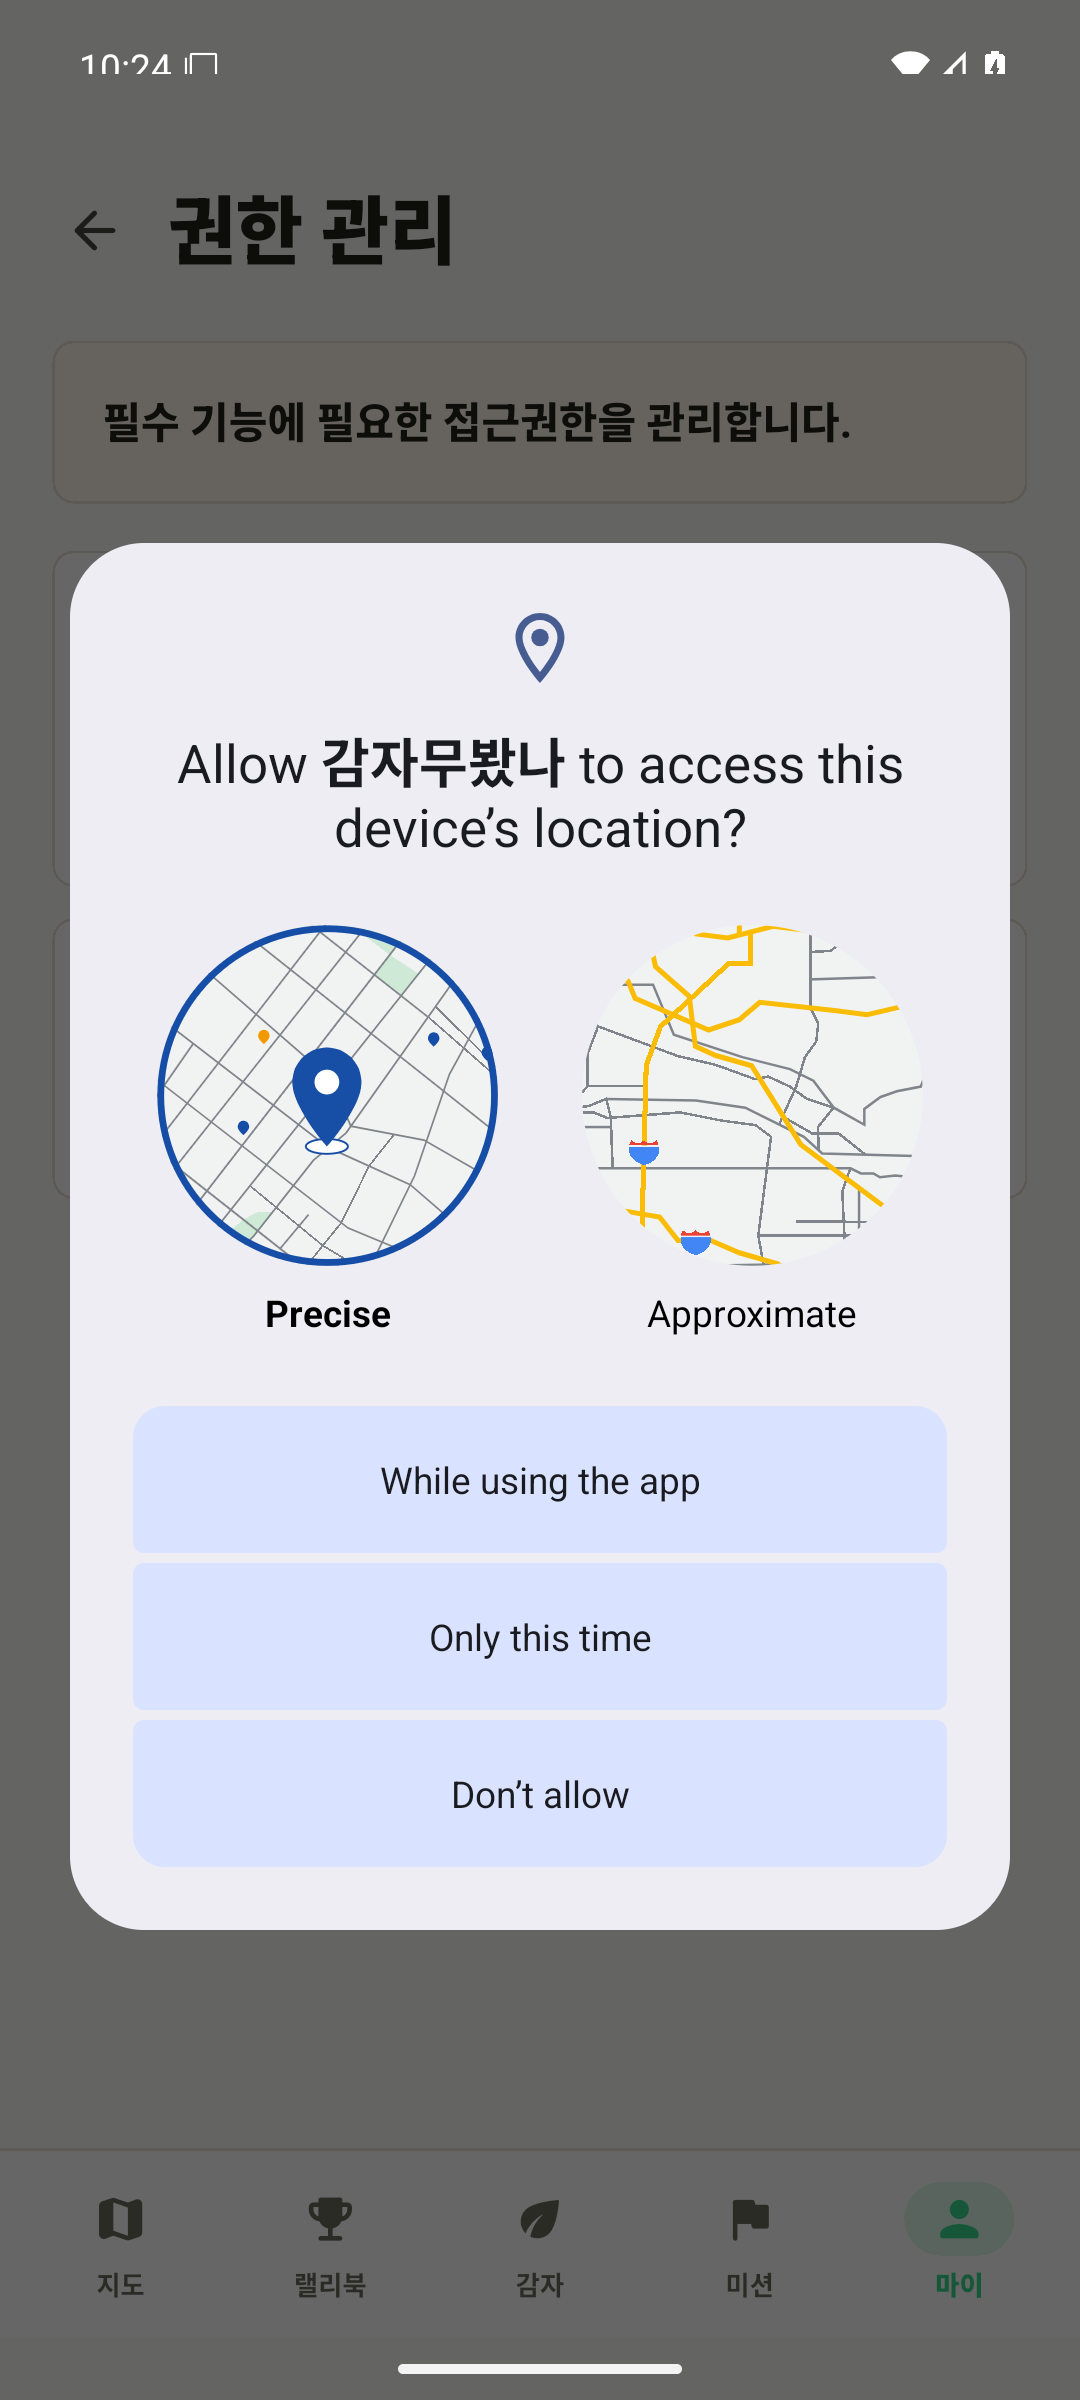
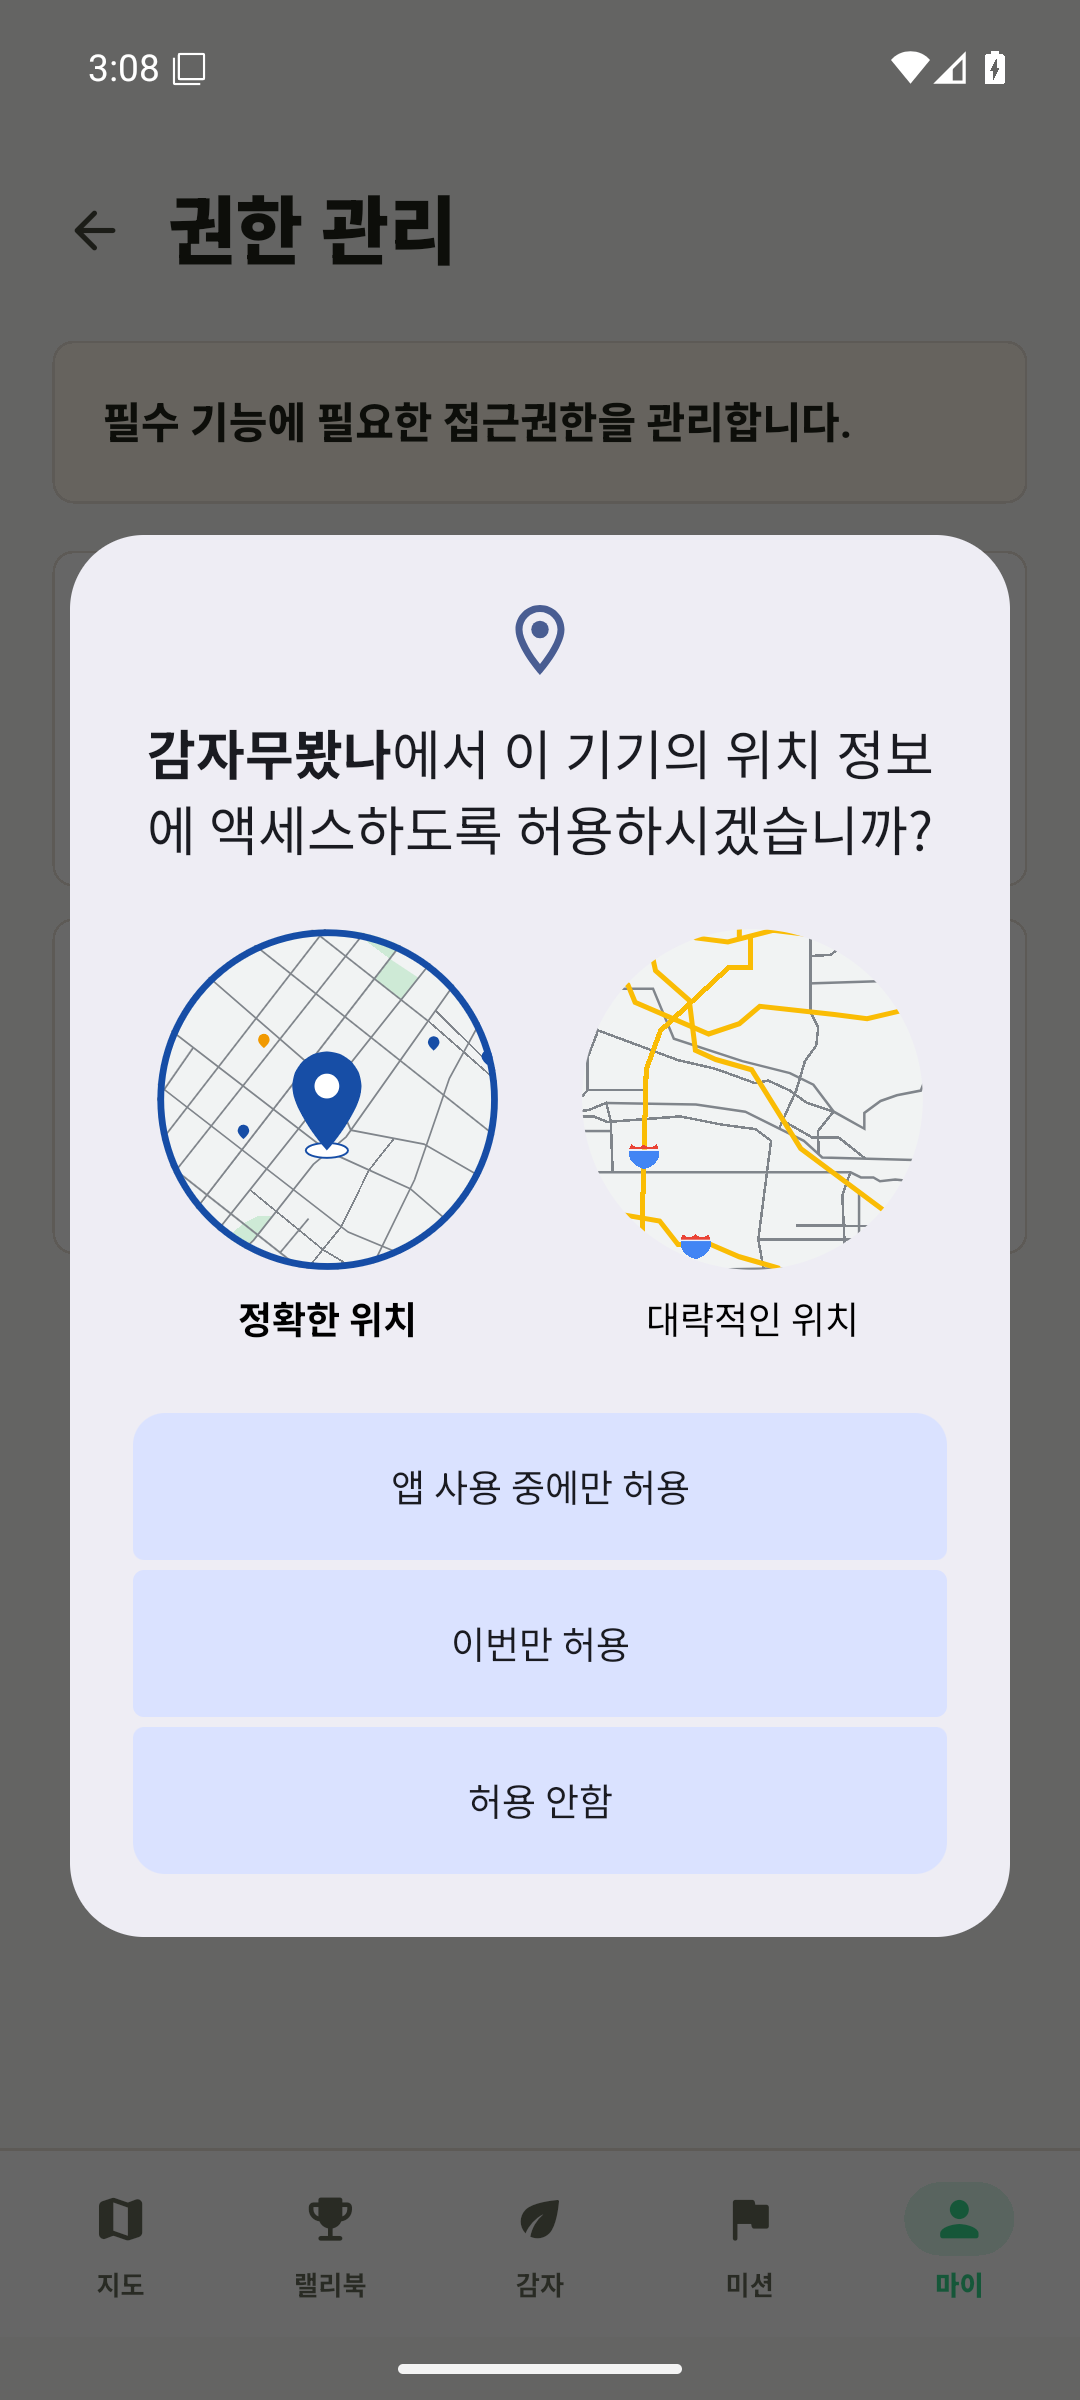
chore(validation): 한국어 권한 팝업 캡처 갱신 (#32)

diff --git a/artifacts/validation/issue-32/VALIDATION.md b/artifacts/validation/issue-32/VALIDATION.md
@@ -48,13 +48,15 @@
 
 ## Android Runtime Permission Capture
 
-- Verified on the Pixel 7 API 36 Google APIs emulator after a fresh app install.
+- Verified on the Pixel 7 API 36 Google APIs emulator after a fresh app install
+  with the device system language set to Korean.
 - `issue-32-location-permission.png` captures the Android system location
-  permission dialog with precise/approximate and foreground/one-time choices.
+  permission dialog with Korean precise/approximate and foreground/one-time
+  choices.
 - `issue-32-notification-permission.png` captures the Android system
-  notification permission dialog.
-- The emulator's system language is English; the app's settings screen remains
-  Korean underneath each system dialog.
+  notification permission dialog with Korean allow/deny actions.
+- The app screen, Android system permission dialog, navigation labels, and
+  status-bar environment shown in both captures are Korean.
 
 ## Residual Risk
 
